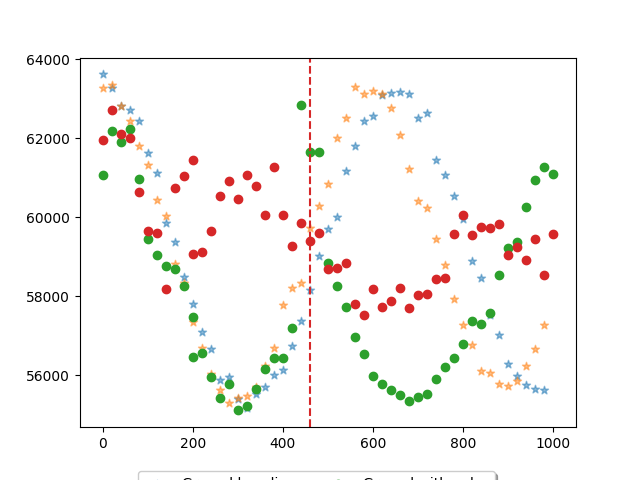
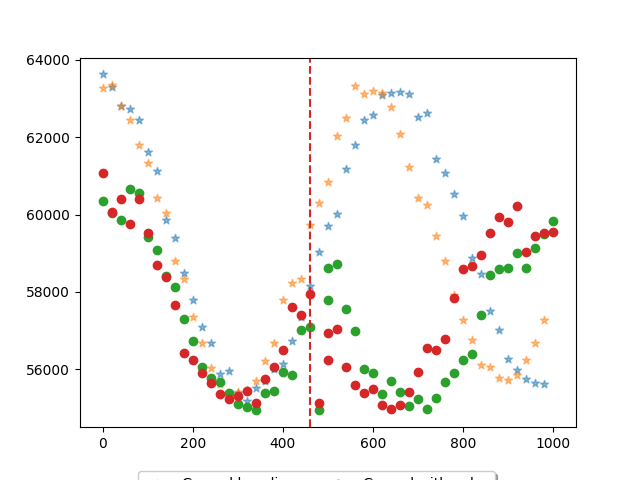
fix readout start time bug

diff --git a/04_05/X_on_ground.py b/04_05/X_on_ground.py
@@ -4,8 +4,11 @@ import matplotlib.pyplot as plt
 from qibolab import create_platform, ExecutionParameters, AveragingMode, AcquisitionType
 from qibolab.pulses import Pulse, ReadoutPulse, PulseSequence, Drag
 from tqdm import tqdm
+from reduce_append import *
 
+# Define start times for X pulses
 time_X_pulse_start = 160
+time_2nd_X_pulse_start = 300
 
 # Setting execution parameters
 opts = ExecutionParameters(
@@ -41,41 +44,71 @@ rabi_pulse_length = np.arange(0, 1000, 20)
 # Setting up pulse lengths for Rabi experiment
 rabi_pulse_length_part_1 = np.arange(0, time_X_pulse_start, 20)
 inverting_pulse_length = np.arange(time_X_pulse_start, time_X_pulse_start+q7_pi_pulse.duration,20)
-rabi_pulse_length_part_2 = np.arange(inverting_pulse_length[-1], 1010, 20)
+rabi_pulse_length_part_2 = np.arange(time_X_pulse_start+q7_pi_pulse.duration, time_2nd_X_pulse_start, 20)
+inverting_pulse_length_2 = np.arange(time_2nd_X_pulse_start, time_2nd_X_pulse_start+q7_pi_pulse.duration,20)
+rabi_pulse_length_part_3 = np.arange(time_2nd_X_pulse_start+q7_pi_pulse.duration, 1010, 20)
 
-total_length = np.append(rabi_pulse_length_part_1,inverting_pulse_length)
-total_length = np.append(total_length,rabi_pulse_length_part_2)
+total_length = append_arrays(rabi_pulse_length_part_1, inverting_pulse_length, rabi_pulse_length_part_2, inverting_pulse_length_2, rabi_pulse_length_part_3)
+
 # Initializing arrays for results
 crtl_gnd_results = np.zeros(len(total_length))
 crtl_exc_results = np.zeros(len(total_length))
 
-# Creating pulse sequence for ground state
+# CR pulse
 ps = PulseSequence(*[CR_pulse, q7_ro])
-
-# Performing Rabi experiment for ground state
 for idx, t in enumerate(tqdm(rabi_pulse_length_part_1)):
     CR_pulse.duration = t
     q7_ro.start = CR_pulse.finish
     crtl_gnd_results[idx] = platform.execute_pulse_sequence(ps, opts)[q7_ro.serial].magnitude
 
-# Creating pulse sequence for ground state
+current_index = len(rabi_pulse_length_part_1)
+# First X pulse
 ps = PulseSequence(*[CR_pulse, inverting_pulse, q7_ro])
 CR_pulse.duration = time_X_pulse_start
 for idx, t in enumerate(tqdm(inverting_pulse_length)):
     inverting_pulse.start = CR_pulse.finish
     inverting_pulse.duration = t - inverting_pulse_length[0]
     q7_ro.start = inverting_pulse.finish
-    crtl_gnd_results[idx+len(rabi_pulse_length_part_1)] = platform.execute_pulse_sequence(ps, opts)[q7_ro.serial].magnitude
+    crtl_gnd_results[idx+current_index] = platform.execute_pulse_sequence(ps, opts)[q7_ro.serial].magnitude
 
-# Creating pulse sequence for ground state
+current_index = current_index + len(inverting_pulse_length)
+# CR pulse
 CR_pulse_2 = CR_pulse.copy()
 ps = PulseSequence(*[CR_pulse, q7_pi_pulse, CR_pulse_2, q7_ro])
+q7_pi_pulse.start = CR_pulse.finish
+CR_pulse_2.start = q7_pi_pulse.finish
 
 for idx, t in enumerate(tqdm(rabi_pulse_length_part_2)):
-    q7_pi_pulse.start = CR_pulse.finish
-    CR_pulse_2.start = q7_pi_pulse.finish
     CR_pulse_2.duration = t-rabi_pulse_length_part_2[0]
     q7_ro.start = CR_pulse_2.finish
-    crtl_gnd_results[idx+len(rabi_pulse_length_part_1)+len(inverting_pulse_length)] = platform.execute_pulse_sequence(ps, opts)[q7_ro.serial].magnitude
+    crtl_gnd_results[idx+current_index] = platform.execute_pulse_sequence(ps, opts)[q7_ro.serial].magnitude
 
-np.save('X_gnd_results.npy',np.asarray(crtl_gnd_results))
+current_index = current_index + len(rabi_pulse_length_part_2)
+# 2nd X pulse
+inverting_pulse_2 = inverting_pulse.copy()
+ps = PulseSequence(*[CR_pulse, q7_pi_pulse, CR_pulse_2, inverting_pulse_2, q7_ro])
+CR_pulse.duration = time_X_pulse_start
+for idx, t in enumerate(tqdm(inverting_pulse_length_2)):
+    inverting_pulse_2.start = CR_pulse_2.finish
+    inverting_pulse_2.duration = t - inverting_pulse_length_2[0]
+    q7_ro.start = inverting_pulse_2.finish
+    crtl_gnd_results[idx+current_index] = platform.execute_pulse_sequence(ps, opts)[q7_ro.serial].magnitude
+current_index = current_index + len(inverting_pulse_length_2)
+
+# CR pulse 3
+CR_pulse_3 = CR_pulse.copy()
+q7_pi_pulse_2 = q7_pi_pulse.copy()
+ps = PulseSequence(*[CR_pulse, q7_pi_pulse, CR_pulse_2, q7_pi_pulse_2, CR_pulse_3, q7_ro])
+q7_pi_pulse_2.start = CR_pulse_2.finish
+CR_pulse_3.start = q7_pi_pulse_2.finish
+
+for idx, t in enumerate(tqdm(rabi_pulse_length_part_3)):
+    CR_pulse_3.duration = t-rabi_pulse_length_part_3[0]
+    q7_ro.start = CR_pulse_3.finish
+    crtl_gnd_results[idx+current_index] = platform.execute_pulse_sequence(ps, opts)[q7_ro.serial].magnitude
+
+# Save results to file
+np.save('X_gnd_results.npy', np.asarray(crtl_gnd_results))
+
+# Disconnect from platform
+platform.disconnect()

diff --git a/04_05/X_on_excited.py b/04_05/X_on_excited.py
@@ -5,7 +5,7 @@ from qibolab import create_platform, ExecutionParameters, AveragingMode, Acquisi
 from qibolab.pulses import Pulse, ReadoutPulse, PulseSequence, Drag
 from tqdm import tqdm
 
-time_X_pulse_start = 160
+time_X_pulse_start = 460
 
 # Setting execution parameters
 opts = ExecutionParameters(
@@ -29,7 +29,6 @@ q7_pi_pulse = platform.create_RX_pulse(qubit=6, start=5)
 q7_drive_pulse = platform.create_qubit_drive_pulse(qubit=6, start=5, duration=5)
 inverting_pulse = q7_drive_pulse
 ######################################################
-# Q6 CRTL Q7 TARGET
 
 # Creating control pulse
 CR_pulse = q7_pi_pulse.copy()
@@ -50,32 +49,31 @@ crtl_gnd_results = np.zeros(len(total_length))
 crtl_exc_results = np.zeros(len(total_length))
 
 # Creating pulse sequence for ground state
-ps = PulseSequence(*[CR_pulse, q7_ro])
-
-# Performing Rabi experiment for ground state
+ps = PulseSequence(*[q6_pi_pulse, CR_pulse, q7_ro])
+CR_pulse.start = q6_pi_pulse.finish
 for idx, t in enumerate(tqdm(rabi_pulse_length_part_1)):
     CR_pulse.duration = t
     q7_ro.start = CR_pulse.finish
-    crtl_gnd_results[idx] = platform.execute_pulse_sequence(ps, opts)[q7_ro.serial].magnitude
+    crtl_exc_results[idx] = platform.execute_pulse_sequence(ps, opts)[q7_ro.serial].magnitude
 
-# Creating pulse sequence for ground state
-ps = PulseSequence(*[CR_pulse, inverting_pulse, q7_ro])
+
+ps = PulseSequence(*[q6_pi_pulse, CR_pulse, inverting_pulse, q7_ro])
 CR_pulse.duration = time_X_pulse_start
 for idx, t in enumerate(tqdm(inverting_pulse_length)):
     inverting_pulse.start = CR_pulse.finish
     inverting_pulse.duration = t - inverting_pulse_length[0]
-    q7_ro.start = inverting_pulse.finish
-    crtl_gnd_results[idx+len(rabi_pulse_length_part_1)] = platform.execute_pulse_sequence(ps, opts)[q7_ro.serial].magnitude
+    q7_ro.start = q7_pi_pulse.finish
+    crtl_exc_results[idx+len(rabi_pulse_length_part_1)] = platform.execute_pulse_sequence(ps, opts)[q7_ro.serial].magnitude
 
-# Creating pulse sequence for ground state
+
 CR_pulse_2 = CR_pulse.copy()
-ps = PulseSequence(*[CR_pulse, q7_pi_pulse, CR_pulse_2, q7_ro])
-
+ps = PulseSequence(*[q6_pi_pulse, CR_pulse, q7_pi_pulse, CR_pulse_2, q7_ro])
 for idx, t in enumerate(tqdm(rabi_pulse_length_part_2)):
     q7_pi_pulse.start = CR_pulse.finish
     CR_pulse_2.start = q7_pi_pulse.finish
     CR_pulse_2.duration = t-rabi_pulse_length_part_2[0]
     q7_ro.start = CR_pulse_2.finish
-    crtl_gnd_results[idx+len(rabi_pulse_length_part_1)+len(inverting_pulse_length)] = platform.execute_pulse_sequence(ps, opts)[q7_ro.serial].magnitude
+    crtl_exc_results[idx+len(rabi_pulse_length_part_1)+len(inverting_pulse_length)] = platform.execute_pulse_sequence(ps, opts)[q7_ro.serial].magnitude
 
-np.save('X_gnd_results.npy',np.asarray(crtl_gnd_results))
+np.save('X_exc_results.npy',np.asarray(crtl_exc_results))
+np.save('total_length.npy',np.asarray(total_length))

diff --git a/04_05/reduce_append.py b/04_05/reduce_append.py
@@ -1,0 +1,27 @@
+import numpy as np
+from functools import reduce
+
+def append_arrays(*arrays):
+    """
+    Append multiple NumPy arrays together using reduce and np.append.
+
+    Parameters:
+    *arrays: list of numpy arrays
+
+    Returns:
+    numpy array
+    """
+    # Check if any array is provided
+    if len(arrays) == 0:
+        raise ValueError("At least one array must be provided.")
+
+    # Check if all arrays have same dimensions except along the axis to concatenate
+    shape = arrays[0].shape[1:]  # Shape excluding the axis along which concatenation will happen
+    for arr in arrays[1:]:
+        if arr.shape[1:] != shape:
+            raise ValueError("All arrays must have the same dimensions except along the axis to concatenate.")
+
+    # Concatenate arrays along the first axis using reduce and np.append
+    concatenated_array = reduce(lambda x, y: np.append(x, y, axis=0), arrays)
+
+    return concatenated_array

diff --git a/04_04/X_on_excited.py b/04_04/X_on_excited.py
@@ -5,7 +5,7 @@ from qibolab import create_platform, ExecutionParameters, AveragingMode, Acquisi
 from qibolab.pulses import Pulse, ReadoutPulse, PulseSequence, Drag
 from tqdm import tqdm
 
-time_X_pulse_start = 460
+time_X_pulse_start = 160
 
 # Setting execution parameters
 opts = ExecutionParameters(
@@ -62,7 +62,7 @@ CR_pulse.duration = time_X_pulse_start
 for idx, t in enumerate(tqdm(inverting_pulse_length)):
     inverting_pulse.start = CR_pulse.finish
     inverting_pulse.duration = t - inverting_pulse_length[0]
-    q7_ro.start = q7_pi_pulse.finish
+    q7_ro.start = inverting_pulse.finish
     crtl_exc_results[idx+len(rabi_pulse_length_part_1)] = platform.execute_pulse_sequence(ps, opts)[q7_ro.serial].magnitude
 
 
